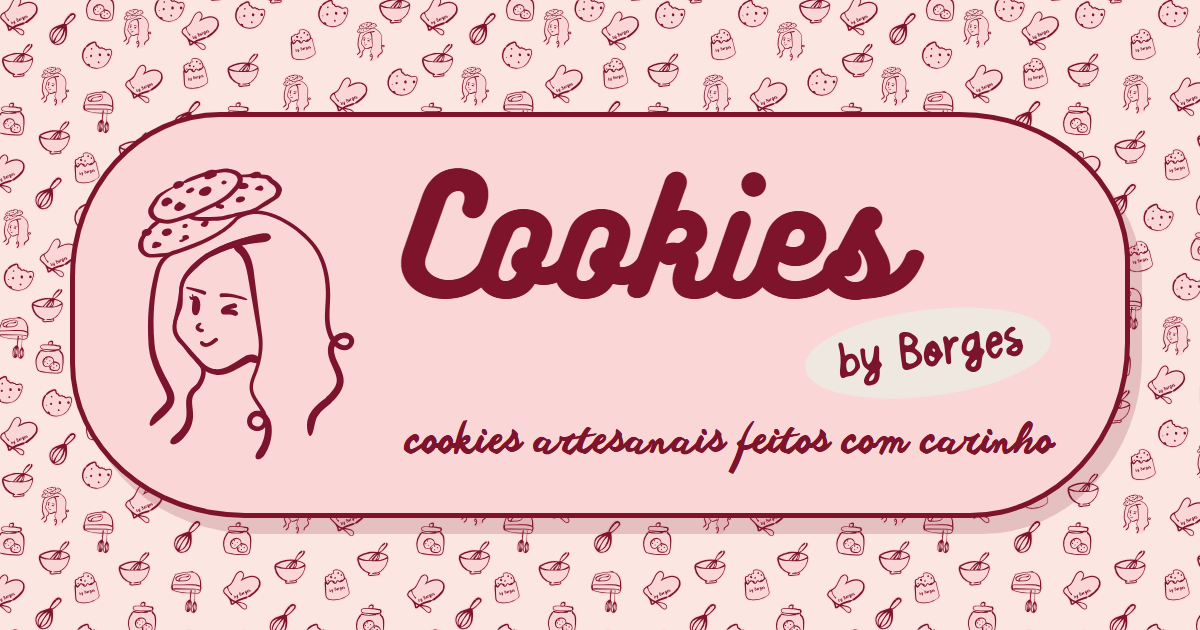
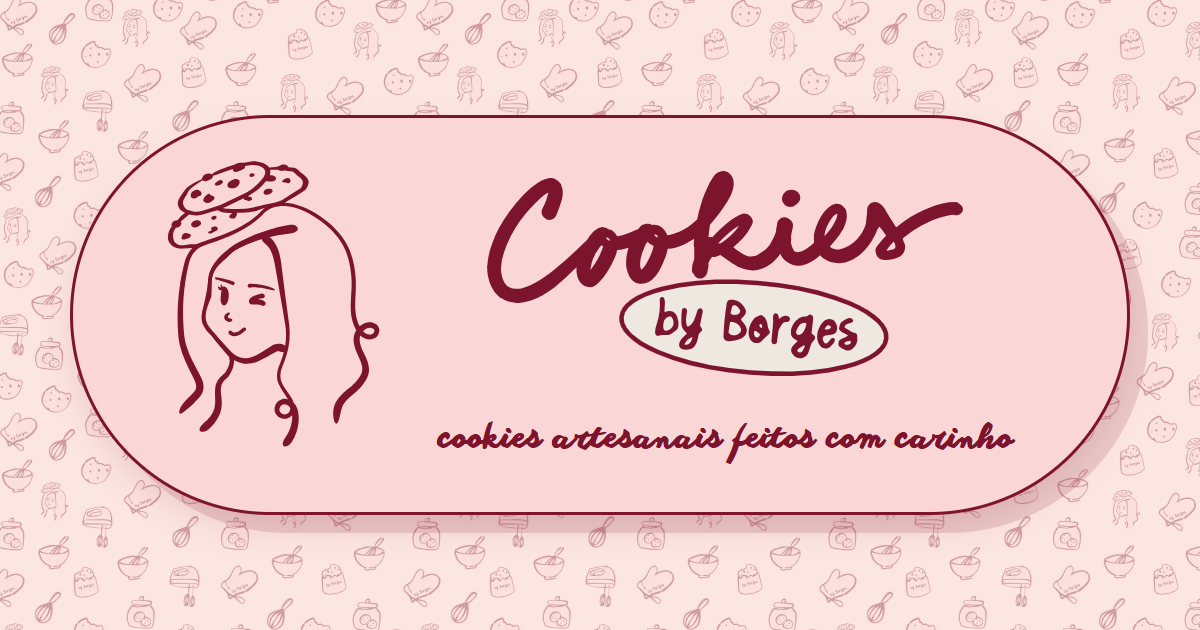
feat: atualiza a imagem de compartilhamento com o novo visual
Refaz a og-image.png com o fundo suavizado (véu de 0.65) e o letreiro
do logo no lugar do nome escrito com fonte. Adiciona ?v=2 ao og:image
para o WhatsApp e o Facebook buscarem a imagem nova em vez da prévia
guardada em cache.

Changed region(s): [[0.0, 0.0, 1.0, 1.0]]

diff --git a/index.html b/index.html
@@ -9,11 +9,12 @@
   <meta property="og:title" content="Cookies by Borges">
   <meta property="og:description" content="Cookies artesanais feitos com carinho. Escolha uma opção e peça o seu!">
   <!-- Imagem de compartilhamento: WhatsApp e Facebook exigem URL absoluta.
-       Se mudar o endereço do site (ex.: domínio próprio), atualize og:url e og:image. -->
+       Se mudar o endereço do site (ex.: domínio próprio), atualize og:url e og:image.
+       Ao trocar a imagem, aumente o ?v= no og:image para o WhatsApp buscar a versão nova. -->
   <meta property="og:type" content="website">
   <meta property="og:locale" content="pt_BR">
   <meta property="og:url" content="https://cezaryi.github.io/cookies-by-borges/">
-  <meta property="og:image" content="https://cezaryi.github.io/cookies-by-borges/assets/images/og-image.png">
+  <meta property="og:image" content="https://cezaryi.github.io/cookies-by-borges/assets/images/og-image.png?v=2">
   <meta property="og:image:width" content="1200">
   <meta property="og:image:height" content="630">
   <meta property="og:image:alt" content="Logo Cookies by Borges: ilustração da menina com cookies na cabeça">
